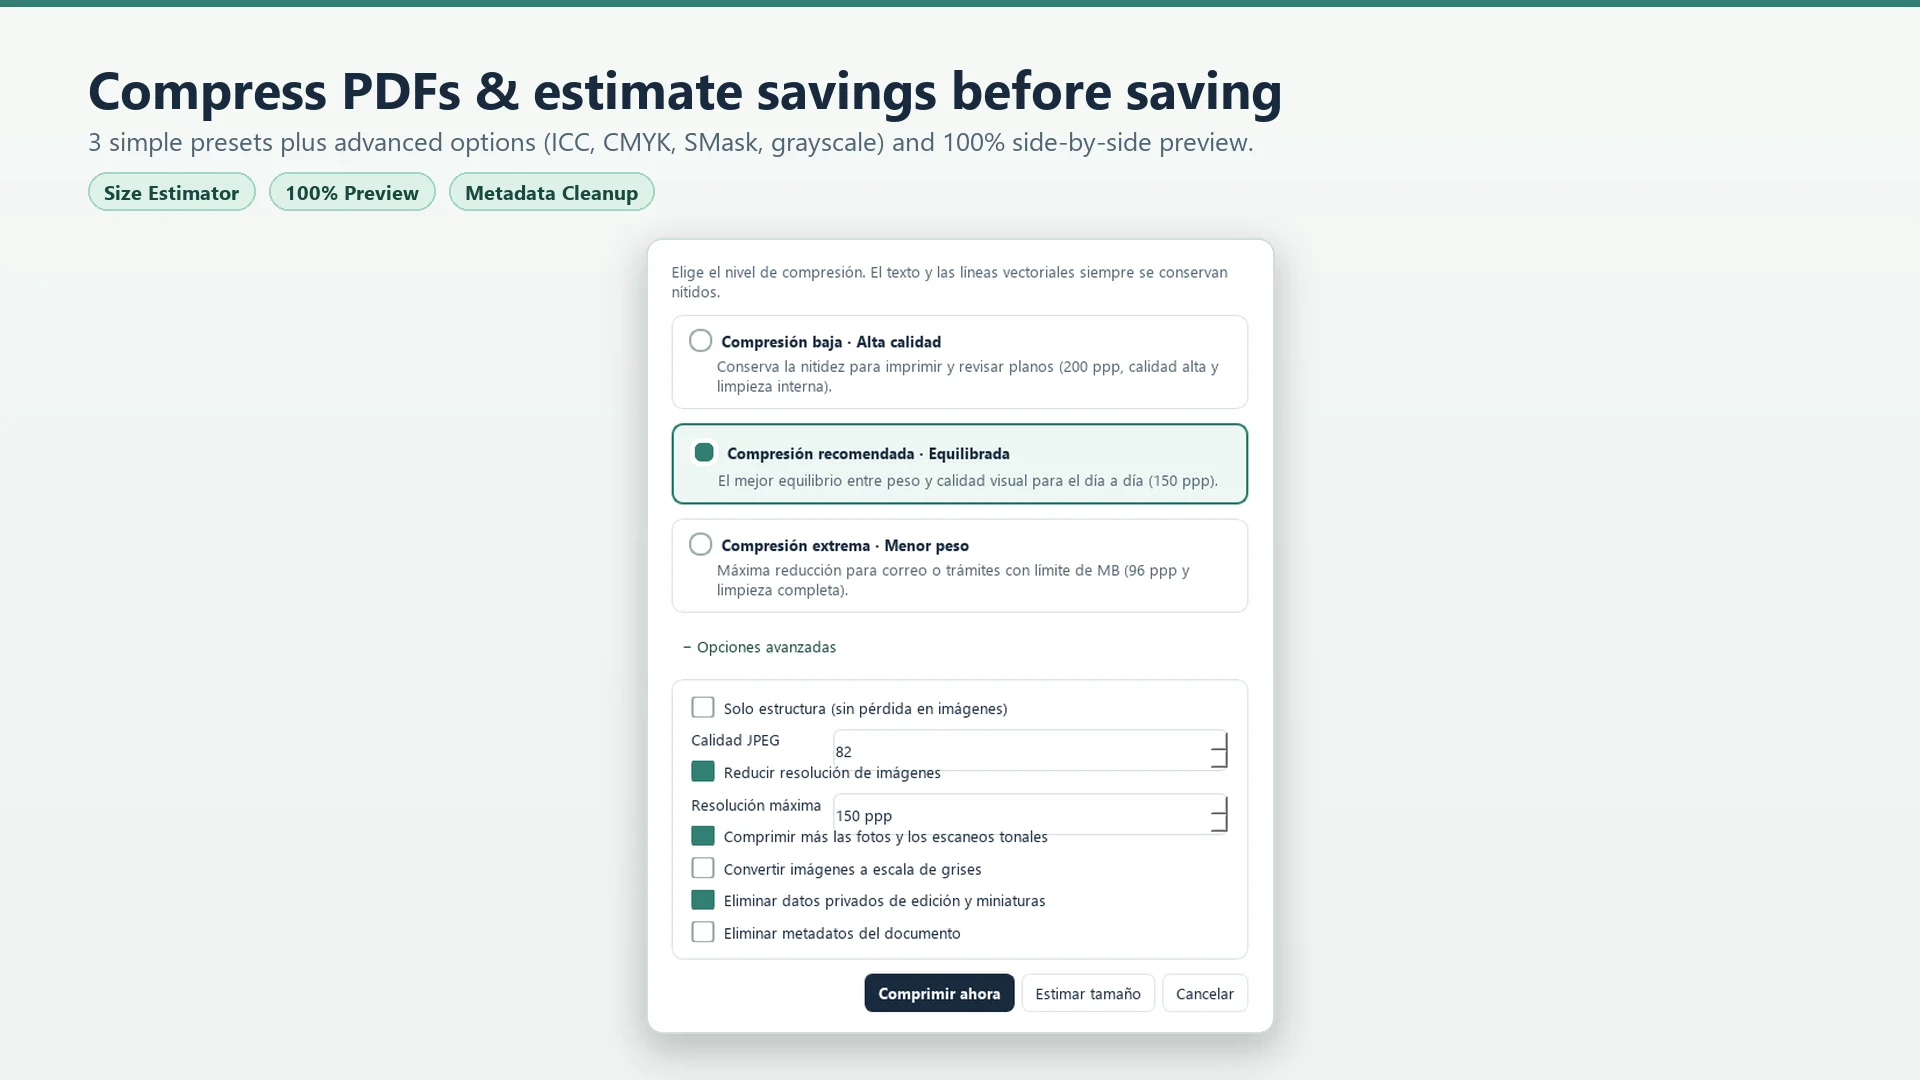
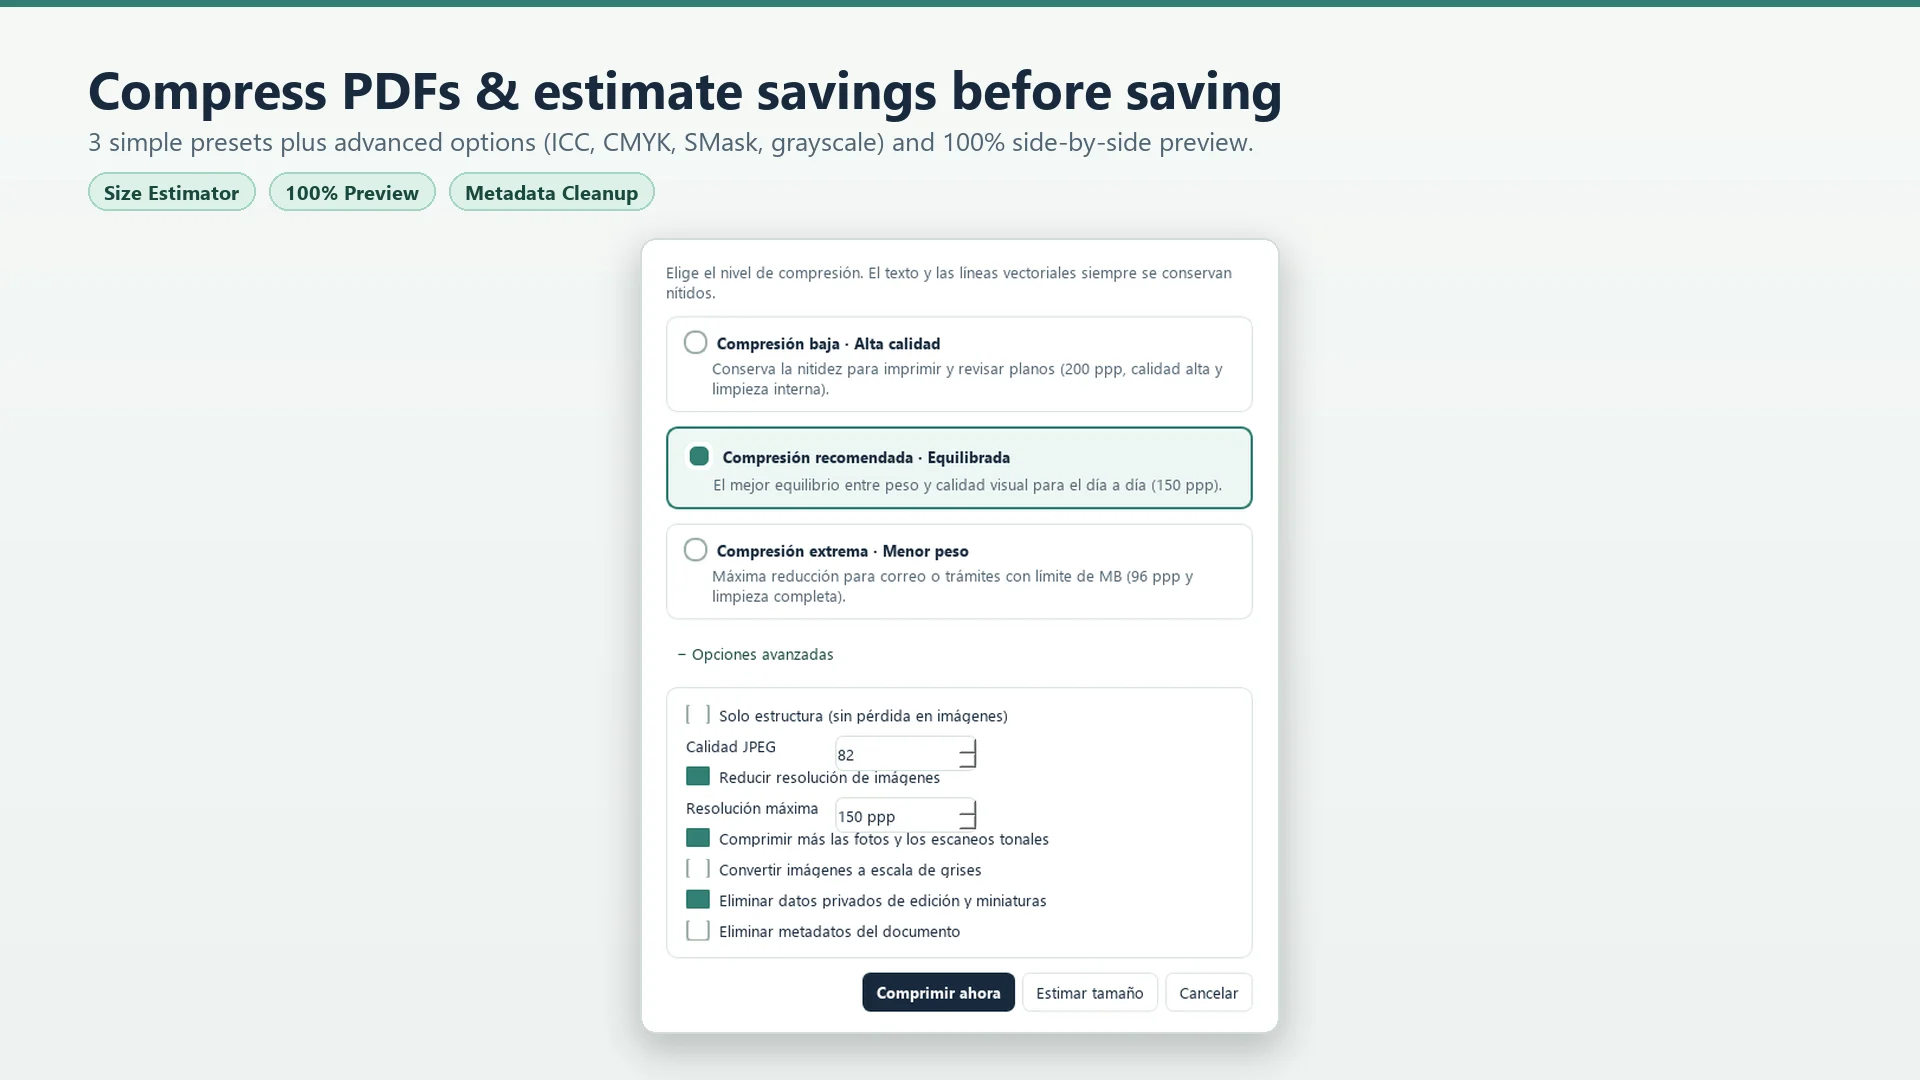
Fix SpinBox spacing and width in CompressDialog and refresh slides

diff --git a/docs/index.html b/docs/index.html
@@ -527,12 +527,12 @@
       <div class="carousel-wrap" id="heroCarousel" aria-label="Galería de pantallas de PDFiu">
         <div class="carousel-stage">
           <div class="carousel-track" id="carouselTrack">
-            <div class="carousel-slide"><img src="slides/es/01-portada.webp?v=2" alt="Vista general de PDFiu"></div>
-            <div class="carousel-slide"><img src="slides/es/02-comprimir.webp?v=2" alt="Compresión PDF inteligente"></div>
-            <div class="carousel-slide"><img src="slides/es/03-firmas-oscuro.webp?v=2" alt="Panel de firmas en modo oscuro"></div>
-            <div class="carousel-slide"><img src="slides/es/04-firma-visual.webp?v=2" alt="Firma visual PNG, JPG o PDF"></div>
-            <div class="carousel-slide"><img src="slides/es/05-organizar.webp?v=2" alt="Organizar páginas en cuadrícula"></div>
-            <div class="carousel-slide"><img src="slides/es/06-comparar-planos.webp?v=2" alt="Comparación visual de planos y PDFs"></div>
+            <div class="carousel-slide"><img src="slides/es/01-portada.webp?v=3" alt="Vista general de PDFiu"></div>
+            <div class="carousel-slide"><img src="slides/es/02-comprimir.webp?v=3" alt="Compresión PDF inteligente"></div>
+            <div class="carousel-slide"><img src="slides/es/03-firmas-oscuro.webp?v=3" alt="Panel de firmas en modo oscuro"></div>
+            <div class="carousel-slide"><img src="slides/es/04-firma-visual.webp?v=3" alt="Firma visual PNG, JPG o PDF"></div>
+            <div class="carousel-slide"><img src="slides/es/05-organizar.webp?v=3" alt="Organizar páginas en cuadrícula"></div>
+            <div class="carousel-slide"><img src="slides/es/06-comparar-planos.webp?v=3" alt="Comparación visual de planos y PDFs"></div>
           </div>
           <button class="carousel-nav prev" id="prevSlide" type="button" aria-label="Anterior">&#8249;</button>
           <button class="carousel-nav next" id="nextSlide" type="button" aria-label="Siguiente">&#8250;</button>
@@ -800,20 +800,20 @@
   <script>
     const slides = {
       es: [
-        'slides/es/01-portada.webp?v=2',
-        'slides/es/02-comprimir.webp?v=2',
-        'slides/es/03-firmas-oscuro.webp?v=2',
-        'slides/es/04-firma-visual.webp?v=2',
-        'slides/es/05-organizar.webp?v=2',
-        'slides/es/06-comparar-planos.webp?v=2',
+        'slides/es/01-portada.webp?v=3',
+        'slides/es/02-comprimir.webp?v=3',
+        'slides/es/03-firmas-oscuro.webp?v=3',
+        'slides/es/04-firma-visual.webp?v=3',
+        'slides/es/05-organizar.webp?v=3',
+        'slides/es/06-comparar-planos.webp?v=3',
       ],
       en: [
-        'slides/en/01-overview.webp?v=2',
-        'slides/en/02-compress.webp?v=2',
-        'slides/en/03-signatures-dark.webp?v=2',
-        'slides/en/04-visual-signature.webp?v=2',
-        'slides/en/05-organize.webp?v=2',
-        'slides/en/06-compare-drawings.webp?v=2',
+        'slides/en/01-overview.webp?v=3',
+        'slides/en/02-compress.webp?v=3',
+        'slides/en/03-signatures-dark.webp?v=3',
+        'slides/en/04-visual-signature.webp?v=3',
+        'slides/en/05-organize.webp?v=3',
+        'slides/en/06-compare-drawings.webp?v=3',
       ],
     };
     const AUTOPLAY_MS = 5500;

diff --git a/pdfiu_ui.py b/pdfiu_ui.py
@@ -716,7 +716,7 @@ QLineEdit, QTextEdit, QPlainTextEdit, QComboBox {
     background: #fff; border: 1px solid #d5e0db; padding: 6px 8px; border-radius: 7px; color: #182a3d;
 }
 QSpinBox, QDoubleSpinBox {
-    background: #fff; border: 1px solid #d5e0db; padding: 3px 8px; min-height: 28px; border-radius: 7px; color: #182a3d;
+    background: #fff; border: 1px solid #d5e0db; padding: 4px 8px; border-radius: 7px; color: #182a3d;
 }
 QLineEdit:focus, QTextEdit:focus, QPlainTextEdit:focus, QComboBox:focus, QSpinBox:focus, QDoubleSpinBox:focus {
     border: 1px solid #317f72;
@@ -958,7 +958,7 @@ QLineEdit, QTextEdit, QPlainTextEdit, QComboBox {
     background: #141920; border: 1px solid #303a47; padding: 6px 8px; border-radius: 7px; color: #e6edf3;
 }
 QSpinBox, QDoubleSpinBox {
-    background: #141920; border: 1px solid #303a47; padding: 3px 8px; min-height: 28px; border-radius: 7px; color: #e6edf3;
+    background: #141920; border: 1px solid #303a47; padding: 4px 8px; border-radius: 7px; color: #e6edf3;
 }
 QLineEdit:focus, QTextEdit:focus, QPlainTextEdit:focus, QComboBox:focus, QSpinBox:focus, QDoubleSpinBox:focus {
     border: 1px solid #4fb39d;

diff --git a/pdfiu_dialogs.py b/pdfiu_dialogs.py
@@ -1281,16 +1281,21 @@ class CompressDialog(QDialog):
         self.advanced_box = QFrame(objectName="dialogCard")
         adv_layout = QFormLayout(self.advanced_box)
         adv_layout.setContentsMargins(16, 14, 16, 14)
-        adv_layout.setSpacing(10)
+        adv_layout.setHorizontalSpacing(14)
+        adv_layout.setVerticalSpacing(10)
 
         self.lossless = QCheckBox(tr("Solo estructura (sin pérdida en imágenes)"))
         self.quality = QSpinBox()
         self.quality.setRange(50, 100)
         self.quality.setValue(82)
+        self.quality.setFixedHeight(30)
+        self.quality.setFixedWidth(120)
         self.downsample = QCheckBox(tr("Reducir resolución de imágenes"))
         self.dpi = QSpinBox()
         self.dpi.setRange(72, 1200)
         self.dpi.setValue(150)
+        self.dpi.setFixedHeight(30)
+        self.dpi.setFixedWidth(120)
         self.dpi.setSuffix(tr(" ppp"))
         self.dpi.setToolTip(tr("Densidad máxima en la página para las imágenes que PDFiu remuestrea"))
         self.compact = QCheckBox(tr("Comprimir más las fotos y los escaneos tonales"))
